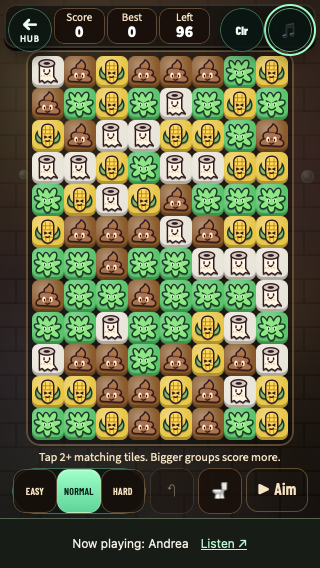
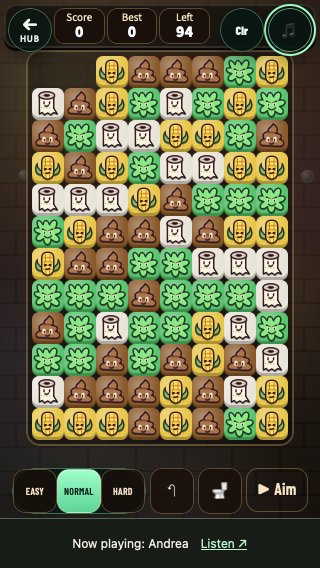
Keep first-play controls stable and retain retry evidence

Changed region(s): [[0.0938, 0.0898, 0.4375, 0.838], [0.4688, 0.7782, 0.875, 0.838], [0.5625, 0.0299, 0.5938, 0.0599]]

diff --git a/play/turdomania.html b/play/turdomania.html
@@ -96,6 +96,8 @@ body.reduced .tile.popping { transform: var(--pos) !important; }
 .dock:has(.suite-difficulty) #levelSel { display: none; }
 .tm-start-hint { flex:1 0 100%; max-width:100%; text-align:center; font-size:12px; line-height:14px; color:#f6e4c5; }
 .tm-start-hint[hidden] { display:none; }
+/* Dismiss the first-play copy without moving the board or Undo under a finger. */
+body.tm-hint-space .tm-start-hint[hidden] { display:block!important; visibility:hidden; }
 @media(max-width:980px) and (orientation:portrait) {
   .dock { gap:4px; }
   .dock button { padding:0 4px; }
@@ -133,6 +135,7 @@ body.reduced .tile.popping { transform: var(--pos) !important; }
   html[data-mobile-game="turdomania"] .dock .tm-aim { grid-column:1/-1; }
   html[data-mobile-game="turdomania"] .dock .tm-control-label { display:none; }
   html[data-mobile-game="turdomania"] .dock:has(.tm-start-hint:not([hidden])) { align-self:flex-start; margin-top:136px; }
+  html[data-mobile-game="turdomania"] body.tm-hint-space .dock { margin-top:136px; }
   html[data-mobile-game="turdomania"] .tm-start-hint { position:fixed; top:108px; right:max(8px,env(safe-area-inset-right)); width:180px; }
 }
 </style>
@@ -248,6 +251,7 @@ const safeStorage = (() => { try { return window.localStorage; } catch { return 
 const hintEl = document.getElementById('startHint');
 const HINT_KEY = 'turdomania_first_pop_v1';
 try { hintEl.hidden = safeStorage?.getItem(HINT_KEY) === '1'; } catch { hintEl.hidden = false; }
+document.body.classList.toggle('tm-hint-space', !hintEl.hidden);
 
 function readPrefs() {
   try { const p = JSON.parse(safeStorage.getItem(Core.PREFS_KEY) || 'null'); return p && p.v === 1 ? p : { v: 1 }; } catch { return { v: 1 }; }
@@ -450,7 +454,6 @@ function popAt(c, r) {
   if (!hintEl.hidden) {
     hintEl.hidden = true;
     try { safeStorage?.setItem(HINT_KEY, '1'); } catch { /* session-only when denied */ }
-    layout();
   }
   const removedEls = res.removed.map((t) => tileEls.get(t.id)).filter(Boolean);
   removedEls.forEach((el) => el.classList.add('popping'));

diff --git a/tests/e2e/arcade-play.spec.js b/tests/e2e/arcade-play.spec.js
@@ -65,6 +65,7 @@ async function popOne(page) {
 async function ready(page, path) {
     await page.goto(path);
     await page.waitForFunction(() => !!window.__turdomania);
+    await page.evaluate(() => document.fonts.ready);
     await expect(page).toHaveTitle('Turdomania');
     await expect(page.locator('#newBtn')).toHaveText(/New board/);
     await expect(page.locator('#levelSel')).toBeEnabled();

diff --git a/styles.css b/styles.css
@@ -1549,7 +1549,7 @@ textarea:focus-visible {
 }
 @media (max-width: 719px) {
     .hero-show-card { gap: 0.4rem; }
-    .panel.hero-show-card { padding: 0.75rem 1rem 0.85rem; }
+    .panel.hero-show-card { padding: 0.4rem 1rem 0.55rem; }
 }
 @media (max-width: 719px) {
     .hero-show { margin-top: 0.4rem; }

diff --git a/docs/site-game-polish.md b/docs/site-game-polish.md
@@ -42,7 +42,7 @@ deployment and verify both `https://stalemate.band/` and
 
 Current status: implementation complete; final gates and publication pending.
 Source PR #92 uses `codex/site-game-polish`; final source revision is
-`ce02be336de54018e1606d8105d9ad768ded4f10`. Source is merged first only after its
+`fd35ce12175c4cbd23c0aa8ebc2cfebe97a57847`. Source is merged first only after its
 required lint/unit/96 mobile/browser-smoke CI passes. The final site import must
 pin this exact SHA, repeat byte-for-byte, then pass the full site gate and package.
 
@@ -71,10 +71,19 @@ email, and delayed real-time ticks in the new exact-cutoff test. The allowlist n
 accepts only that exact mailto address. Boundary tests install the browser clock
 before loading and advance its actual timer exactly through the cutoff, keeping
 all before/at/refresh assertions. No test assertions/time limits were relaxed.
-Tab focus/visibility also refreshes stale promotions immediately. The final upstream
-smoke update targets the primary menu summary after Bet Tools became nested; all
-gameplay assertions are retained. That test-only revision changes no imported
-runtime bytes (only the VENDORED marker).
+Tab focus/visibility also refreshes stale promotions immediately. The upstream smoke update targets the primary menu summary after Bet Tools
+became nested; all gameplay assertions are retained.
+
+The first remote c818 runs completed green but needed two/three retries. Their
+logs showed an immediate Undo touch during the first hint's toolbar reflow, and
+one video visibility measurement missing its unchanged 40px requirement by 1px.
+The hint now disappears without moving the board or Undo during that visit, with
+a regression asserting stable control coordinates. Phone show-card padding now
+provides more above-fold video space; touch preparation waits for actual fonts.
+All affected cases passed 42 repeated local checks with unchanged assertions.
+The previous failure-only artifact upload omitted images from successful runs
+with retries; raw first-failure logs are preserved, and CI now always retains
+Playwright reports/results so those traces survive future retries.
 
 The social card was an image of an XML error, and its SVG contained a legacy
 encoding byte and dated labels. The UTF-8 evergreen SVG now renders a valid

diff --git a/pr-assets/site-game-polish/README.md b/pr-assets/site-game-polish/README.md
@@ -1,12 +1,12 @@
 # Website and arcade polish — actual release captures
 
 Captured October 21, 2026 from the integrated site importing Turdanoid
-`ce02be336de54018e1606d8105d9ad768ded4f10`. The runtime bytes are identical to
-the captured f3e663c revision; the final upstream change only narrows a test
-selector. The homepage's clock is set after the
+`fd35ce12175c4cbd23c0aa8ebc2cfebe97a57847`. The homepage's clock is set after the
 existing show cutoff. Phones use emulated WebKit; no physical-device acceptance
 is claimed. The full 23-image gallery, capture script, first failures and receipts
 remain in the parent workspace's `release-evidence/site-game-polish/` folder.
+
+Record screenshots use seeded local fixtures, not claimed band/player results.
 
 Full-page hub captures show the fixed site strip at the viewport boundary;
 the separate record detail shows the complete score after normal scrolling.
